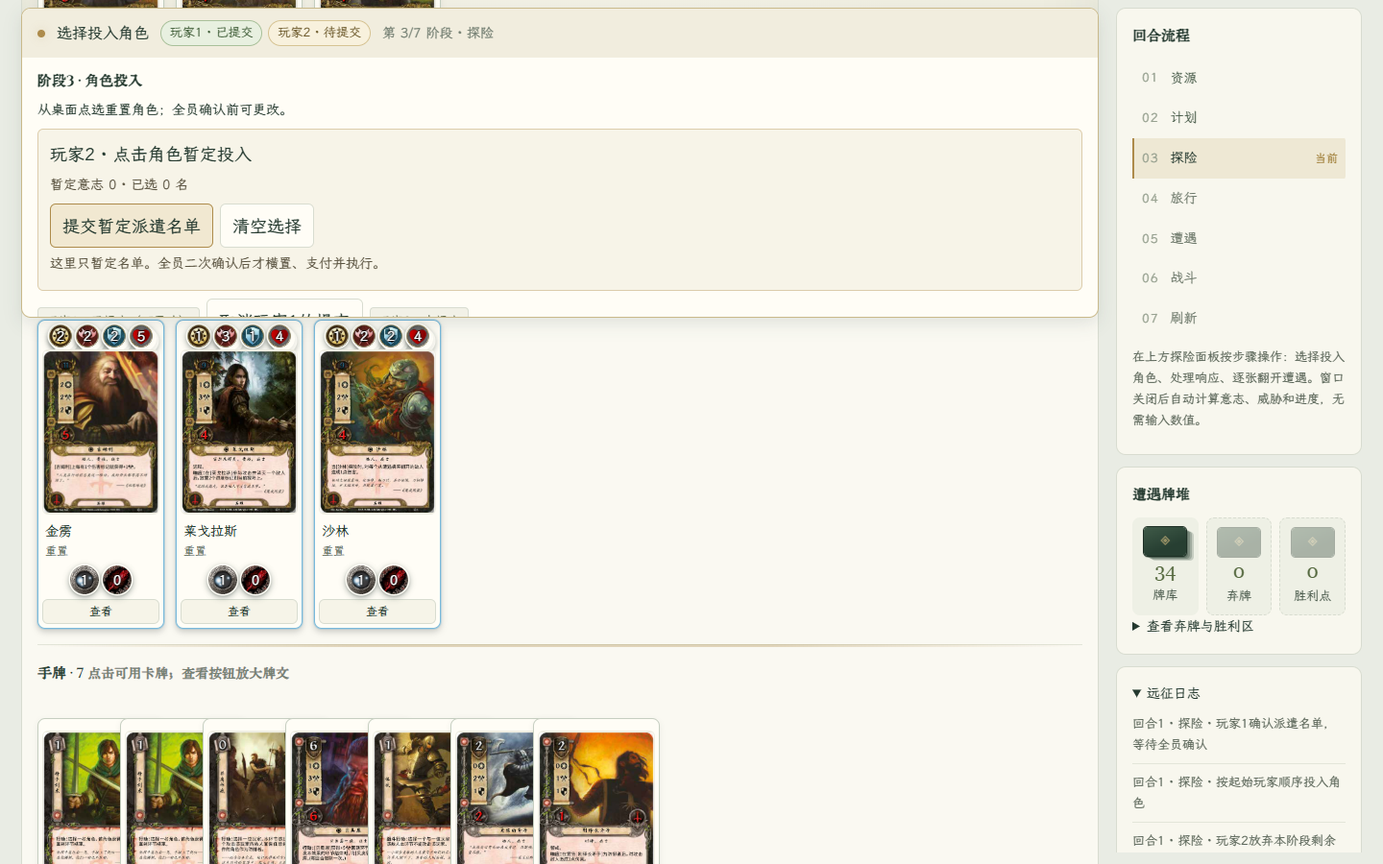
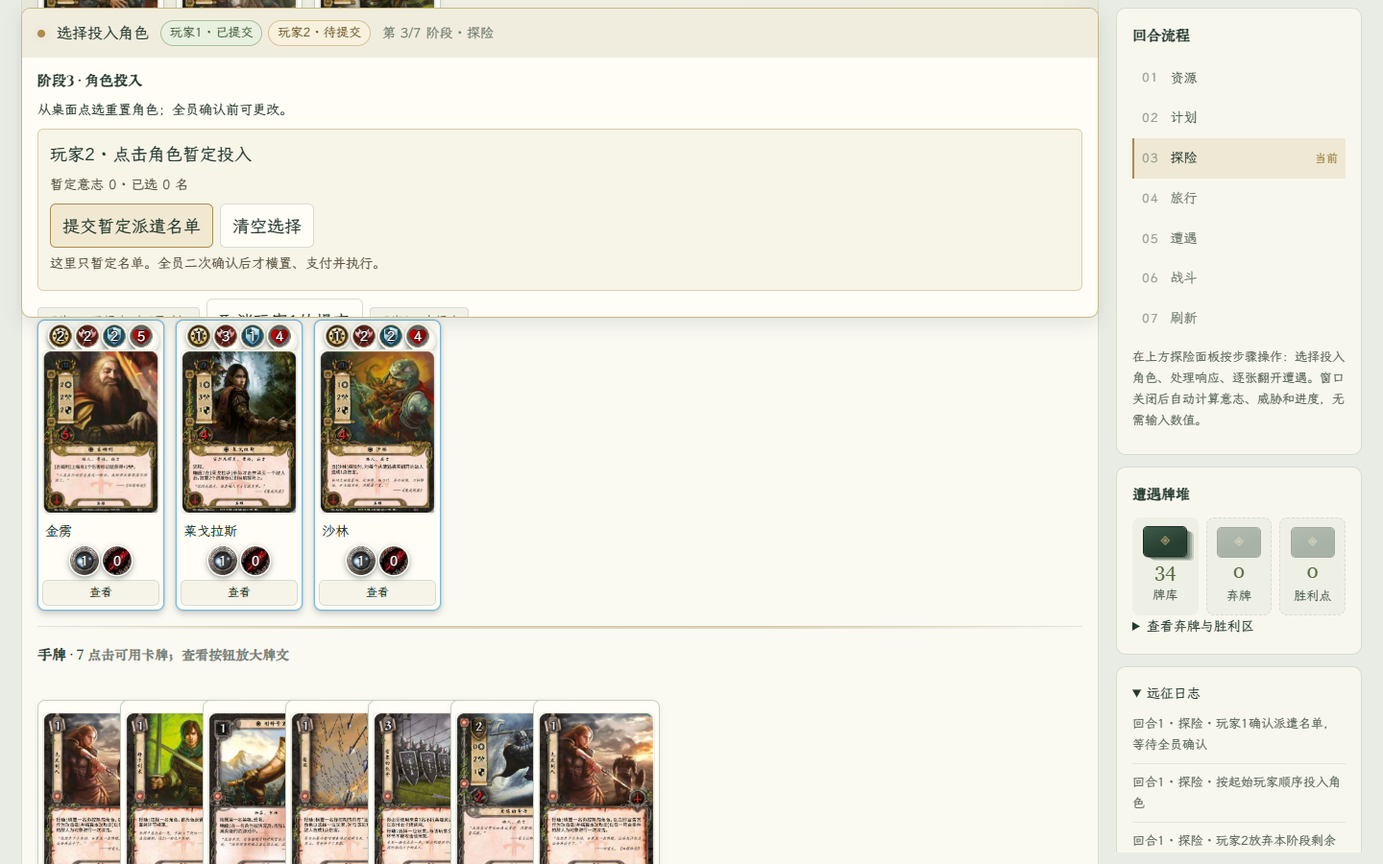
v0.15.38 横置改为卡图旋转90°表现，移除横置/重置文案

Changed region(s): [[0.0312, 0.6222, 0.6875, 1.0], [0.0312, 0.0, 0.3125, 0.0311]]

diff --git a/index.html b/index.html
@@ -27,7 +27,9 @@ body:has(.desktop-table) header{padding:10px 22px;background:#273f32;gap:22px;bo
 body:has(.desktop-table) main{padding:16px 22px 32px}
 .desktop-table main button{background:#fffdf6;color:#24392f;border-color:#c6cfc1;font-size:14px;padding:6px 10px}.desktop-table main button:hover{background:#f1e8d1;border-color:#ad8b4b}.desktop-table main button:disabled{opacity:.48}.desktop-table main button.primary{background:#365842;border-color:#365842;color:#fff}.desktop-table main select,.desktop-table main input{background:#fff;color:#24392f;border-color:#d8dcd0}.desktop-table .badge{background:#f2f1e7;color:#55603f}.desktop-table .notice{background:#f4eddc;color:#73613e}.desktop-table .warning-text{color:#a26a34}.desktop-table .win{background:#dfead4;color:#42603b}.desktop-table .lost{background:#f2dfd5;color:#934f3c}
 .expedition-title{display:flex;align-items:center;gap:22px;flex-wrap:wrap;margin-bottom:16px}.expedition-title h1{font-size:26px;margin:1px 0}.expedition-title>.player-tabs{margin-left:auto;display:flex;gap:6px;flex-wrap:wrap}.player-tabs button.active{background:#527085;border-color:#d7c18b;color:#fff}.tabletop-layout{display:grid;grid-template-columns:minmax(0,1fr) 256px;gap:18px;align-items:start}.tabletop-main{min-width:0;display:grid;gap:18px}.operation-dock{position:sticky;top:8px;z-index:5;background:#233b4c;box-shadow:0 6px 18px #0005;border:1px solid #6c91a8;border-radius:9px;overflow:hidden}.operation-title{display:flex;gap:12px;align-items:center;padding:12px 16px;background:#304e62;flex-wrap:wrap}.operation-title strong{font-size:16px}.operation-title>.primary{margin-left:auto}.operation-indicator{width:8px;height:8px;background:#e3c88c;box-shadow:0 0 10px #e3c88c55;border-radius:50%}.operation-content{max-height:30vh;overflow:auto;overscroll-behavior:contain;padding:0 14px}.operation-content:empty{display:none}.operation-content>.panel{border:0;background:transparent;padding:12px 0;margin:0;border-radius:0}.operation-content h2{font-size:15px}.operation-content p{margin:5px 0;font-size:14px}.operation-content .actions{margin-top:7px}.operation-content .table-selection{padding:10px 12px;background:#182e3b;border:1px solid #55768c;border-radius:6px;margin:8px 0}.operation-content .table-selection p{color:#d1e4ee}.operation-content .planning-board,.operation-content .planning-hand{display:none}
-.public-table{background:radial-gradient(ellipse at top,#30424e,#25343e 70%);border:1px solid #4c606c;border-radius:10px;padding:16px;display:grid;gap:16px;min-width:0}.table-zone{min-width:0}.zone-heading{display:flex;align-items:center;justify-content:space-between;gap:12px;margin-bottom:9px;flex-wrap:wrap;line-height:1.3}.zone-heading h2{font-size:15px;color:#dbe6ee;font-weight:600}.zone-heading h3{font-size:15px}.zone-heading>span{font-size:14px;color:#bfcbd4}.threat-total{margin-left:12px;font-size:14px;color:#e9c98e}.table-card-row{display:flex;gap:12px;align-items:flex-start;flex-wrap:wrap;min-height:48px}.zone-empty{display:flex;align-items:center;justify-content:center;min-height:68px;width:100%;border:1px dashed #526571;border-radius:6px;color:#adbbc6;font-size:14px}.quest-location-row{display:grid;grid-template-columns:minmax(0,1fr) minmax(180px,.6fr);gap:20px;border-bottom:1px solid #4a5b67;padding-bottom:16px}.quest-display{display:flex;gap:16px;align-items:flex-start}.quest-display>.card-art{width:128px;min-width:100px;flex:none;margin:0}.quest-display .image-loading-note{display:none}.quest-display h3{color:#edd4a3}.quest-display p{font-size:14px;color:#d3dde4;line-height:1.7}.active-zone .table-card-row{min-height:155px}.player-mat{background:#23333f;border:1px solid #657b88;border-top:3px solid #c6ac74;border-radius:10px;padding:16px;display:grid;gap:16px}.player-mat>.zone-heading{margin-bottom:0}.player-mat>.table-zone+.table-zone{border-top:1px solid #455762;padding-top:14px}.other-player{padding-top:14px;border-top:1px solid #4c5e6b}.table-card{width:122px;flex:0 0 122px;min-width:0;background:#182630;border:1px solid #526572;border-radius:7px;padding:4px;position:relative;box-shadow:0 3px 7px #0003}.table-card .card-face{display:block;position:relative;width:100%;padding:0;border:1px solid transparent;border-radius:4px;overflow:hidden;background:#101d26;min-height:154px}.table-card .card-face:disabled{opacity:1}.card-face img{display:block;width:100%;aspect-ratio:424/600;object-fit:contain}.card-face img[hidden]{display:none}.card-face:has(img[hidden]):after{content:'卡图加载失败，请查看牌名与数值';display:block;padding:18px 8px;color:#bac7d0;font-size:13px}.table-card-fallback{display:block;padding:20px 5px;color:#b6c4ce}.table-card-caption{padding:6px 3px 3px;font-size:12px;line-height:1.6;overflow-wrap:anywhere}.table-card-caption b{display:block;color:#f0e5c8;font-size:14px}.table-card-caption span{display:block;color:#c3d0da}.table-card .inspect-card{width:100%;padding:2px 4px;font-size:12px;border-color:#405563;background:transparent;margin-top:3px}.table-card.selectable{border-color:#79b9db;box-shadow:0 0 0 1px #79b9db55,0 3px 7px #0003}.table-card.selectable .card-face{cursor:pointer}.table-card.selectable .card-face:hover{border-color:#fff3cf;filter:brightness(1.1)}.table-card.selected{border:2px solid #e8c473;padding:3px;box-shadow:0 0 12px #e8c47344}.selection-mark{position:absolute;bottom:6px;left:6px;background:#e8c473;color:#202936;border-radius:4px;padding:1px 7px;font-size:13px;font-weight:700}.table-card.exhausted .card-face img{filter:brightness(.64) saturate(.7)}.table-card.exhausted .table-card-caption>span:last-child{color:#e3b68a}.table-card.unavailable{opacity:.55}.table-card details{font-size:13px;padding:2px 4px;color:#c3d0da}.card-legality{display:block;font-size:12px;color:#abbac6;padding:3px}.peer-cards .table-card{width:100px;flex-basis:100px}.peer-cards .card-face{min-height:124px}.peer-cards .table-card-caption b{font-size:13px}.tabletop-rail{position:sticky;top:8px;display:grid;gap:12px;max-height:calc(100vh - 20px);overflow:auto;scrollbar-width:thin}.tabletop-rail>section,.tabletop-rail>details{background:#23323e;border:1px solid #475b6b;border-radius:8px;padding:13px}.tabletop-rail h2{font-size:15px;margin-bottom:10px}.rail-step{display:flex;gap:12px;padding:9px 8px;color:#9eafbd;border-left:2px solid transparent;align-items:center}.rail-step>span{font-size:13px;letter-spacing:1px;color:#96a9b7}.rail-step b{font-size:14px}.rail-step small{margin-left:auto;font-size:12px;color:#e4c68c}.rail-step.current{color:#fff2d7;background:#3c5061;border-left-color:#ddbc75;border-radius:2px}.rail-step.past{color:#b8c8bf}.deck-rail .deck-counts div{background:#182b37;color:#c6d5df}.deck-rail .deck-counts strong{font-size:23px;color:#efdfb8}.tabletop-rail summary{font-size:14px}.tabletop-rail p{font-size:13px;color:#b9c9d4}.table-log>div{max-height:265px;overflow:auto}.table-log p{border-bottom:1px solid #405361;padding-bottom:8px}.desktop-table .quest-layout{grid-template-columns:1fr}.desktop-table .panel .hero{color:#23392e}
+.public-table{background:radial-gradient(ellipse at top,#30424e,#25343e 70%);border:1px solid #4c606c;border-radius:10px;padding:16px;display:grid;gap:16px;min-width:0}.table-zone{min-width:0}.zone-heading{display:flex;align-items:center;justify-content:space-between;gap:12px;margin-bottom:9px;flex-wrap:wrap;line-height:1.3}.zone-heading h2{font-size:15px;color:#dbe6ee;font-weight:600}.zone-heading h3{font-size:15px}.zone-heading>span{font-size:14px;color:#bfcbd4}.threat-total{margin-left:12px;font-size:14px;color:#e9c98e}.table-card-row{display:flex;gap:12px;align-items:flex-start;flex-wrap:wrap;min-height:48px}.zone-empty{display:flex;align-items:center;justify-content:center;min-height:68px;width:100%;border:1px dashed #526571;border-radius:6px;color:#adbbc6;font-size:14px}.quest-location-row{display:grid;grid-template-columns:minmax(0,1fr) minmax(180px,.6fr);gap:20px;border-bottom:1px solid #4a5b67;padding-bottom:16px}.quest-display{display:flex;gap:16px;align-items:flex-start}.quest-display>.card-art{width:128px;min-width:100px;flex:none;margin:0}.quest-display .image-loading-note{display:none}.quest-display h3{color:#edd4a3}.quest-display p{font-size:14px;color:#d3dde4;line-height:1.7}.active-zone .table-card-row{min-height:155px}.player-mat{background:#23333f;border:1px solid #657b88;border-top:3px solid #c6ac74;border-radius:10px;padding:16px;display:grid;gap:16px}.player-mat>.zone-heading{margin-bottom:0}.player-mat>.table-zone+.table-zone{border-top:1px solid #455762;padding-top:14px}.other-player{padding-top:14px;border-top:1px solid #4c5e6b}.table-card{width:122px;flex:0 0 122px;min-width:0;background:#182630;border:1px solid #526572;border-radius:7px;padding:4px;position:relative;box-shadow:0 3px 7px #0003}.table-card .card-face{display:block;position:relative;width:100%;padding:0;border:1px solid transparent;border-radius:4px;overflow:hidden;background:#101d26;min-height:154px}.table-card .card-face:disabled{opacity:1}.card-face img{display:block;width:100%;aspect-ratio:424/600;object-fit:contain}.card-face img[hidden]{display:none}.card-face:has(img[hidden]):after{content:'卡图加载失败，请查看牌名与数值';display:block;padding:18px 8px;color:#bac7d0;font-size:13px}.table-card-fallback{display:block;padding:20px 5px;color:#b6c4ce}.table-card-caption{padding:6px 3px 3px;font-size:12px;line-height:1.6;overflow-wrap:anywhere}.table-card-caption b{display:block;color:#f0e5c8;font-size:14px}.table-card-caption span{display:block;color:#c3d0da}.table-card .inspect-card{width:100%;padding:2px 4px;font-size:12px;border-color:#405563;background:transparent;margin-top:3px}.table-card.selectable{border-color:#79b9db;box-shadow:0 0 0 1px #79b9db55,0 3px 7px #0003}.table-card.selectable .card-face{cursor:pointer}.table-card.selectable .card-face:hover{border-color:#fff3cf;filter:brightness(1.1)}.table-card.selected{border:2px solid #e8c473;padding:3px;box-shadow:0 0 12px #e8c47344}.selection-mark{position:absolute;bottom:6px;left:6px;background:#e8c473;color:#202936;border-radius:4px;padding:1px 7px;font-size:13px;font-weight:700}.table-card.exhausted .card-face img{filter:brightness(.64) saturate(.7)}
+.character-card.exhausted .card-face img{transform:rotate(90deg) scale(.7)}
+.character-card .card-face img{transition:transform .25s ease}.table-card.exhausted .table-card-caption>span:last-child{color:#e3b68a}.table-card.unavailable{opacity:.55}.table-card details{font-size:13px;padding:2px 4px;color:#c3d0da}.card-legality{display:block;font-size:12px;color:#abbac6;padding:3px}.peer-cards .table-card{width:100px;flex-basis:100px}.peer-cards .card-face{min-height:124px}.peer-cards .table-card-caption b{font-size:13px}.tabletop-rail{position:sticky;top:8px;display:grid;gap:12px;max-height:calc(100vh - 20px);overflow:auto;scrollbar-width:thin}.tabletop-rail>section,.tabletop-rail>details{background:#23323e;border:1px solid #475b6b;border-radius:8px;padding:13px}.tabletop-rail h2{font-size:15px;margin-bottom:10px}.rail-step{display:flex;gap:12px;padding:9px 8px;color:#9eafbd;border-left:2px solid transparent;align-items:center}.rail-step>span{font-size:13px;letter-spacing:1px;color:#96a9b7}.rail-step b{font-size:14px}.rail-step small{margin-left:auto;font-size:12px;color:#e4c68c}.rail-step.current{color:#fff2d7;background:#3c5061;border-left-color:#ddbc75;border-radius:2px}.rail-step.past{color:#b8c8bf}.deck-rail .deck-counts div{background:#182b37;color:#c6d5df}.deck-rail .deck-counts strong{font-size:23px;color:#efdfb8}.tabletop-rail summary{font-size:14px}.tabletop-rail p{font-size:13px;color:#b9c9d4}.table-log>div{max-height:265px;overflow:auto}.table-log p{border-bottom:1px solid #405361;padding-bottom:8px}.desktop-table .quest-layout{grid-template-columns:1fr}.desktop-table .panel .hero{color:#23392e}
 @media(min-width:1700px){.table-card{width:136px;flex-basis:136px}.peer-cards .table-card{width:110px;flex-basis:110px}.tabletop-layout{grid-template-columns:minmax(0,1fr) 274px}.operation-content{max-height:27vh}}
 @media(max-width:1100px){.tabletop-layout{grid-template-columns:minmax(0,1fr) 210px;gap:12px}.expedition-title{gap:12px}.quest-location-row{grid-template-columns:1fr}.quest-display>.card-art{width:100px}.table-card{width:110px;flex-basis:110px}.operation-content{max-height:35vh}}
 @media(max-width:760px){body:has(.desktop-table) main{padding:10px}.tabletop-layout{grid-template-columns:1fr}.tabletop-rail{position:static;max-height:none;grid-template-columns:1fr 1fr}.tabletop-rail .phase-rail{grid-column:1/-1}.phase-rail .rail-step{display:inline-flex;padding:5px}.phase-rail .rail-step>span,.phase-rail .rail-step small{display:none}.operation-dock{position:relative;top:0}.operation-content{max-height:none}.expedition-title>.player-tabs{margin:0}.public-table,.player-mat{padding:12px}.quest-display{gap:10px}.table-card-row{gap:8px}}
@@ -8690,7 +8692,7 @@ const WindowUI=(()=>{
 </script><script>
 /* Tabletop view: UI drafts never pay, exhaust, reveal, or bypass phase validation. */
 /* 界面版本徽标唯一来源：须与 CHANGELOG.md 最新条目标题一致（planning-dom-tests 有校验）。 */
-const APP_VERSION='v0.15.37';
+const APP_VERSION='v0.15.38';
 const DesktopUI=(()=>{
  const E=ScenarioEngine,R=E.planning,Q=E.questing,C=E.combat,esc=x=>String(x??'').replace(/[&<>"']/g,c=>({'&':'&amp;','<':'&lt;','>':'&gt;','"':'&quot;',"'":'&#39;'}[c]));
  let combatDraft={key:'',target:null,ids:[]},draftState=null;
@@ -8713,7 +8715,7 @@ const DesktopUI=(()=>{
  function art(code){const rec=ImageLibrary.by[code],url=ImageLibrary.safeUrl(rec?.faces?.B||rec?.imageUrl);return url?`<img src="${esc(url)}" alt="${esc(rec.nameZhCard||rec.name||code)}" loading="lazy" referrerpolicy="no-referrer">`:'<span class="table-card-fallback">卡图暂缺<br>请查看牌名与数值</span>';}
  function inspect(code){return `<button class="inspect-card" data-action="images" data-image-action="open" data-code="${esc(code)}" aria-label="查看卡牌详情">查看</button>`;}
  function character(s,c,m){const h=c.state,v=R.find(s,c.uid)?R.stats(s,c.uid):c.meta,selectable=eligible(s,m,c.uid),selected=!!m&&ids(s,m).includes(c.uid),ability=R.abilitySpec(s,c.controller,c.uid),a=selectable?'data-action="desktop" data-desktop="pick"':!m&&ability.legal?'data-action="planning" data-plan="ability"':'',captured=c.kind==='hero'&&!s.rescued&&s.prisoner?.player===c.controller&&s.prisoner?.hero===h.index;
-  return `<article class="table-card character-card ${h.exhausted?'exhausted':''} ${selectable?'selectable':''} ${selected?'selected':''} ${h.destroyed||captured?'unavailable':''}" data-card-uid="${c.uid}" aria-label="${esc(c.meta.nameZh)}：意志 ${v.willpower||0} 攻击 ${v.attack||0} 防御 ${v.defense||0} 生命 ${v.health||0}${c.kind==='hero'?' 资源 '+(h.resources||0):''} 伤害 ${h.damage||0}${selectable?'，点击选择':''}">${tokenRow('attr-tokens',tk('willpower',v.willpower||0,false)+tk('attack',v.attack||0,false)+tk('defense',v.defense||0,false)+tk('hitPoints',v.health||0,false))}<button class="card-face" ${a} data-player="${c.controller}" data-uid="${c.uid}" ${a?'':'disabled'} aria-label="${esc(c.meta.nameZh)}${selectable?'，点击选择':''}" aria-pressed="${selected}">${art(c.meta.code)}${selected?'<span class="selection-mark">已选</span>':''}</button><div class="table-card-caption"><b>${esc(c.meta.nameZh)}</b>${c.kind!=='hero'&&h.resources?`<span>资源 ${h.resources}</span>`:''}<span>${h.destroyed?'已离场':captured?'囚禁':h.exhausted?'横置':'重置'}${h.committed?' · 已投入':''}</span></div>${tokenRow('state-tokens',c.kind==='hero'?tk('resource',h.resources||0)+tk('damage',h.damage||0):tk('damage',h.damage||0))}${inspect(c.meta.code)}</article>`;
+  return `<article class="table-card character-card ${h.exhausted?'exhausted':''} ${selectable?'selectable':''} ${selected?'selected':''} ${h.destroyed||captured?'unavailable':''}" data-card-uid="${c.uid}" aria-label="${esc(c.meta.nameZh)}：意志 ${v.willpower||0} 攻击 ${v.attack||0} 防御 ${v.defense||0} 生命 ${v.health||0}${c.kind==='hero'?' 资源 '+(h.resources||0):''} 伤害 ${h.damage||0}${selectable?'，点击选择':''}">${tokenRow('attr-tokens',tk('willpower',v.willpower||0,false)+tk('attack',v.attack||0,false)+tk('defense',v.defense||0,false)+tk('hitPoints',v.health||0,false))}<button class="card-face" ${a} data-player="${c.controller}" data-uid="${c.uid}" ${a?'':'disabled'} aria-label="${esc(c.meta.nameZh)}${selectable?'，点击选择':''}" aria-pressed="${selected}">${art(c.meta.code)}${selected?'<span class="selection-mark">已选</span>':''}</button><div class="table-card-caption"><b>${esc(c.meta.nameZh)}</b>${c.kind!=='hero'&&h.resources?`<span>资源 ${h.resources}</span>`:''}${h.destroyed||captured||h.committed?`<span>${[h.destroyed?'已离场':captured?'囚禁':'',h.committed?'已投入':''].filter(Boolean).join(' · ')}</span>`:''}</div>${tokenRow('state-tokens',c.kind==='hero'?tk('resource',h.resources||0)+tk('damage',h.damage||0):tk('damage',h.damage||0))}${inspect(c.meta.code)}</article>`;
  }
  function playerChars(s,p){return [...p.heroStates.map(h=>({kind:'hero',uid:h.uid,controller:p.id,owner:p.id,state:h,meta:R.data(s,{...h,owner:p.id})})),...p.allies.map(c=>({kind:'ally',uid:c.uid,controller:p.id,owner:c.owner,state:c,meta:R.data(s,c)}))];}
  function encounter(s,c,zone,m){const found=R.find(s,c.uid),v=found?R.stats(s,c.uid):c;let attrs='',legal=false,selected=false;

diff --git a/style.css b/style.css
@@ -25,7 +25,9 @@ body:has(.desktop-table) header{padding:10px 22px;background:#273f32;gap:22px;bo
 body:has(.desktop-table) main{padding:16px 22px 32px}
 .desktop-table main button{background:#fffdf6;color:#24392f;border-color:#c6cfc1;font-size:14px;padding:6px 10px}.desktop-table main button:hover{background:#f1e8d1;border-color:#ad8b4b}.desktop-table main button:disabled{opacity:.48}.desktop-table main button.primary{background:#365842;border-color:#365842;color:#fff}.desktop-table main select,.desktop-table main input{background:#fff;color:#24392f;border-color:#d8dcd0}.desktop-table .badge{background:#f2f1e7;color:#55603f}.desktop-table .notice{background:#f4eddc;color:#73613e}.desktop-table .warning-text{color:#a26a34}.desktop-table .win{background:#dfead4;color:#42603b}.desktop-table .lost{background:#f2dfd5;color:#934f3c}
 .expedition-title{display:flex;align-items:center;gap:22px;flex-wrap:wrap;margin-bottom:16px}.expedition-title h1{font-size:26px;margin:1px 0}.expedition-title>.player-tabs{margin-left:auto;display:flex;gap:6px;flex-wrap:wrap}.player-tabs button.active{background:#527085;border-color:#d7c18b;color:#fff}.tabletop-layout{display:grid;grid-template-columns:minmax(0,1fr) 256px;gap:18px;align-items:start}.tabletop-main{min-width:0;display:grid;gap:18px}.operation-dock{position:sticky;top:8px;z-index:5;background:#233b4c;box-shadow:0 6px 18px #0005;border:1px solid #6c91a8;border-radius:9px;overflow:hidden}.operation-title{display:flex;gap:12px;align-items:center;padding:12px 16px;background:#304e62;flex-wrap:wrap}.operation-title strong{font-size:16px}.operation-title>.primary{margin-left:auto}.operation-indicator{width:8px;height:8px;background:#e3c88c;box-shadow:0 0 10px #e3c88c55;border-radius:50%}.operation-content{max-height:30vh;overflow:auto;overscroll-behavior:contain;padding:0 14px}.operation-content:empty{display:none}.operation-content>.panel{border:0;background:transparent;padding:12px 0;margin:0;border-radius:0}.operation-content h2{font-size:15px}.operation-content p{margin:5px 0;font-size:14px}.operation-content .actions{margin-top:7px}.operation-content .table-selection{padding:10px 12px;background:#182e3b;border:1px solid #55768c;border-radius:6px;margin:8px 0}.operation-content .table-selection p{color:#d1e4ee}.operation-content .planning-board,.operation-content .planning-hand{display:none}
-.public-table{background:radial-gradient(ellipse at top,#30424e,#25343e 70%);border:1px solid #4c606c;border-radius:10px;padding:16px;display:grid;gap:16px;min-width:0}.table-zone{min-width:0}.zone-heading{display:flex;align-items:center;justify-content:space-between;gap:12px;margin-bottom:9px;flex-wrap:wrap;line-height:1.3}.zone-heading h2{font-size:15px;color:#dbe6ee;font-weight:600}.zone-heading h3{font-size:15px}.zone-heading>span{font-size:14px;color:#bfcbd4}.threat-total{margin-left:12px;font-size:14px;color:#e9c98e}.table-card-row{display:flex;gap:12px;align-items:flex-start;flex-wrap:wrap;min-height:48px}.zone-empty{display:flex;align-items:center;justify-content:center;min-height:68px;width:100%;border:1px dashed #526571;border-radius:6px;color:#adbbc6;font-size:14px}.quest-location-row{display:grid;grid-template-columns:minmax(0,1fr) minmax(180px,.6fr);gap:20px;border-bottom:1px solid #4a5b67;padding-bottom:16px}.quest-display{display:flex;gap:16px;align-items:flex-start}.quest-display>.card-art{width:128px;min-width:100px;flex:none;margin:0}.quest-display .image-loading-note{display:none}.quest-display h3{color:#edd4a3}.quest-display p{font-size:14px;color:#d3dde4;line-height:1.7}.active-zone .table-card-row{min-height:155px}.player-mat{background:#23333f;border:1px solid #657b88;border-top:3px solid #c6ac74;border-radius:10px;padding:16px;display:grid;gap:16px}.player-mat>.zone-heading{margin-bottom:0}.player-mat>.table-zone+.table-zone{border-top:1px solid #455762;padding-top:14px}.other-player{padding-top:14px;border-top:1px solid #4c5e6b}.table-card{width:122px;flex:0 0 122px;min-width:0;background:#182630;border:1px solid #526572;border-radius:7px;padding:4px;position:relative;box-shadow:0 3px 7px #0003}.table-card .card-face{display:block;position:relative;width:100%;padding:0;border:1px solid transparent;border-radius:4px;overflow:hidden;background:#101d26;min-height:154px}.table-card .card-face:disabled{opacity:1}.card-face img{display:block;width:100%;aspect-ratio:424/600;object-fit:contain}.card-face img[hidden]{display:none}.card-face:has(img[hidden]):after{content:'卡图加载失败，请查看牌名与数值';display:block;padding:18px 8px;color:#bac7d0;font-size:13px}.table-card-fallback{display:block;padding:20px 5px;color:#b6c4ce}.table-card-caption{padding:6px 3px 3px;font-size:12px;line-height:1.6;overflow-wrap:anywhere}.table-card-caption b{display:block;color:#f0e5c8;font-size:14px}.table-card-caption span{display:block;color:#c3d0da}.table-card .inspect-card{width:100%;padding:2px 4px;font-size:12px;border-color:#405563;background:transparent;margin-top:3px}.table-card.selectable{border-color:#79b9db;box-shadow:0 0 0 1px #79b9db55,0 3px 7px #0003}.table-card.selectable .card-face{cursor:pointer}.table-card.selectable .card-face:hover{border-color:#fff3cf;filter:brightness(1.1)}.table-card.selected{border:2px solid #e8c473;padding:3px;box-shadow:0 0 12px #e8c47344}.selection-mark{position:absolute;bottom:6px;left:6px;background:#e8c473;color:#202936;border-radius:4px;padding:1px 7px;font-size:13px;font-weight:700}.table-card.exhausted .card-face img{filter:brightness(.64) saturate(.7)}.table-card.exhausted .table-card-caption>span:last-child{color:#e3b68a}.table-card.unavailable{opacity:.55}.table-card details{font-size:13px;padding:2px 4px;color:#c3d0da}.card-legality{display:block;font-size:12px;color:#abbac6;padding:3px}.peer-cards .table-card{width:100px;flex-basis:100px}.peer-cards .card-face{min-height:124px}.peer-cards .table-card-caption b{font-size:13px}.tabletop-rail{position:sticky;top:8px;display:grid;gap:12px;max-height:calc(100vh - 20px);overflow:auto;scrollbar-width:thin}.tabletop-rail>section,.tabletop-rail>details{background:#23323e;border:1px solid #475b6b;border-radius:8px;padding:13px}.tabletop-rail h2{font-size:15px;margin-bottom:10px}.rail-step{display:flex;gap:12px;padding:9px 8px;color:#9eafbd;border-left:2px solid transparent;align-items:center}.rail-step>span{font-size:13px;letter-spacing:1px;color:#96a9b7}.rail-step b{font-size:14px}.rail-step small{margin-left:auto;font-size:12px;color:#e4c68c}.rail-step.current{color:#fff2d7;background:#3c5061;border-left-color:#ddbc75;border-radius:2px}.rail-step.past{color:#b8c8bf}.deck-rail .deck-counts div{background:#182b37;color:#c6d5df}.deck-rail .deck-counts strong{font-size:23px;color:#efdfb8}.tabletop-rail summary{font-size:14px}.tabletop-rail p{font-size:13px;color:#b9c9d4}.table-log>div{max-height:265px;overflow:auto}.table-log p{border-bottom:1px solid #405361;padding-bottom:8px}.desktop-table .quest-layout{grid-template-columns:1fr}.desktop-table .panel .hero{color:#23392e}
+.public-table{background:radial-gradient(ellipse at top,#30424e,#25343e 70%);border:1px solid #4c606c;border-radius:10px;padding:16px;display:grid;gap:16px;min-width:0}.table-zone{min-width:0}.zone-heading{display:flex;align-items:center;justify-content:space-between;gap:12px;margin-bottom:9px;flex-wrap:wrap;line-height:1.3}.zone-heading h2{font-size:15px;color:#dbe6ee;font-weight:600}.zone-heading h3{font-size:15px}.zone-heading>span{font-size:14px;color:#bfcbd4}.threat-total{margin-left:12px;font-size:14px;color:#e9c98e}.table-card-row{display:flex;gap:12px;align-items:flex-start;flex-wrap:wrap;min-height:48px}.zone-empty{display:flex;align-items:center;justify-content:center;min-height:68px;width:100%;border:1px dashed #526571;border-radius:6px;color:#adbbc6;font-size:14px}.quest-location-row{display:grid;grid-template-columns:minmax(0,1fr) minmax(180px,.6fr);gap:20px;border-bottom:1px solid #4a5b67;padding-bottom:16px}.quest-display{display:flex;gap:16px;align-items:flex-start}.quest-display>.card-art{width:128px;min-width:100px;flex:none;margin:0}.quest-display .image-loading-note{display:none}.quest-display h3{color:#edd4a3}.quest-display p{font-size:14px;color:#d3dde4;line-height:1.7}.active-zone .table-card-row{min-height:155px}.player-mat{background:#23333f;border:1px solid #657b88;border-top:3px solid #c6ac74;border-radius:10px;padding:16px;display:grid;gap:16px}.player-mat>.zone-heading{margin-bottom:0}.player-mat>.table-zone+.table-zone{border-top:1px solid #455762;padding-top:14px}.other-player{padding-top:14px;border-top:1px solid #4c5e6b}.table-card{width:122px;flex:0 0 122px;min-width:0;background:#182630;border:1px solid #526572;border-radius:7px;padding:4px;position:relative;box-shadow:0 3px 7px #0003}.table-card .card-face{display:block;position:relative;width:100%;padding:0;border:1px solid transparent;border-radius:4px;overflow:hidden;background:#101d26;min-height:154px}.table-card .card-face:disabled{opacity:1}.card-face img{display:block;width:100%;aspect-ratio:424/600;object-fit:contain}.card-face img[hidden]{display:none}.card-face:has(img[hidden]):after{content:'卡图加载失败，请查看牌名与数值';display:block;padding:18px 8px;color:#bac7d0;font-size:13px}.table-card-fallback{display:block;padding:20px 5px;color:#b6c4ce}.table-card-caption{padding:6px 3px 3px;font-size:12px;line-height:1.6;overflow-wrap:anywhere}.table-card-caption b{display:block;color:#f0e5c8;font-size:14px}.table-card-caption span{display:block;color:#c3d0da}.table-card .inspect-card{width:100%;padding:2px 4px;font-size:12px;border-color:#405563;background:transparent;margin-top:3px}.table-card.selectable{border-color:#79b9db;box-shadow:0 0 0 1px #79b9db55,0 3px 7px #0003}.table-card.selectable .card-face{cursor:pointer}.table-card.selectable .card-face:hover{border-color:#fff3cf;filter:brightness(1.1)}.table-card.selected{border:2px solid #e8c473;padding:3px;box-shadow:0 0 12px #e8c47344}.selection-mark{position:absolute;bottom:6px;left:6px;background:#e8c473;color:#202936;border-radius:4px;padding:1px 7px;font-size:13px;font-weight:700}.table-card.exhausted .card-face img{filter:brightness(.64) saturate(.7)}
+.character-card.exhausted .card-face img{transform:rotate(90deg) scale(.7)}
+.character-card .card-face img{transition:transform .25s ease}.table-card.exhausted .table-card-caption>span:last-child{color:#e3b68a}.table-card.unavailable{opacity:.55}.table-card details{font-size:13px;padding:2px 4px;color:#c3d0da}.card-legality{display:block;font-size:12px;color:#abbac6;padding:3px}.peer-cards .table-card{width:100px;flex-basis:100px}.peer-cards .card-face{min-height:124px}.peer-cards .table-card-caption b{font-size:13px}.tabletop-rail{position:sticky;top:8px;display:grid;gap:12px;max-height:calc(100vh - 20px);overflow:auto;scrollbar-width:thin}.tabletop-rail>section,.tabletop-rail>details{background:#23323e;border:1px solid #475b6b;border-radius:8px;padding:13px}.tabletop-rail h2{font-size:15px;margin-bottom:10px}.rail-step{display:flex;gap:12px;padding:9px 8px;color:#9eafbd;border-left:2px solid transparent;align-items:center}.rail-step>span{font-size:13px;letter-spacing:1px;color:#96a9b7}.rail-step b{font-size:14px}.rail-step small{margin-left:auto;font-size:12px;color:#e4c68c}.rail-step.current{color:#fff2d7;background:#3c5061;border-left-color:#ddbc75;border-radius:2px}.rail-step.past{color:#b8c8bf}.deck-rail .deck-counts div{background:#182b37;color:#c6d5df}.deck-rail .deck-counts strong{font-size:23px;color:#efdfb8}.tabletop-rail summary{font-size:14px}.tabletop-rail p{font-size:13px;color:#b9c9d4}.table-log>div{max-height:265px;overflow:auto}.table-log p{border-bottom:1px solid #405361;padding-bottom:8px}.desktop-table .quest-layout{grid-template-columns:1fr}.desktop-table .panel .hero{color:#23392e}
 @media(min-width:1700px){.table-card{width:136px;flex-basis:136px}.peer-cards .table-card{width:110px;flex-basis:110px}.tabletop-layout{grid-template-columns:minmax(0,1fr) 274px}.operation-content{max-height:27vh}}
 @media(max-width:1100px){.tabletop-layout{grid-template-columns:minmax(0,1fr) 210px;gap:12px}.expedition-title{gap:12px}.quest-location-row{grid-template-columns:1fr}.quest-display>.card-art{width:100px}.table-card{width:110px;flex-basis:110px}.operation-content{max-height:35vh}}
 @media(max-width:760px){body:has(.desktop-table) main{padding:10px}.tabletop-layout{grid-template-columns:1fr}.tabletop-rail{position:static;max-height:none;grid-template-columns:1fr 1fr}.tabletop-rail .phase-rail{grid-column:1/-1}.phase-rail .rail-step{display:inline-flex;padding:5px}.phase-rail .rail-step>span,.phase-rail .rail-step small{display:none}.operation-dock{position:relative;top:0}.operation-content{max-height:none}.expedition-title>.player-tabs{margin:0}.public-table,.player-mat{padding:12px}.quest-display{gap:10px}.table-card-row{gap:8px}}

diff --git a/desktop-ui.js b/desktop-ui.js
@@ -1,6 +1,6 @@
 /* Tabletop view: UI drafts never pay, exhaust, reveal, or bypass phase validation. */
 /* 界面版本徽标唯一来源：须与 CHANGELOG.md 最新条目标题一致（planning-dom-tests 有校验）。 */
-const APP_VERSION='v0.15.37';
+const APP_VERSION='v0.15.38';
 const DesktopUI=(()=>{
  const E=ScenarioEngine,R=E.planning,Q=E.questing,C=E.combat,esc=x=>String(x??'').replace(/[&<>"']/g,c=>({'&':'&amp;','<':'&lt;','>':'&gt;','"':'&quot;',"'":'&#39;'}[c]));
  let combatDraft={key:'',target:null,ids:[]},draftState=null;
@@ -23,7 +23,7 @@ const DesktopUI=(()=>{
  function art(code){const rec=ImageLibrary.by[code],url=ImageLibrary.safeUrl(rec?.faces?.B||rec?.imageUrl);return url?`<img src="${esc(url)}" alt="${esc(rec.nameZhCard||rec.name||code)}" loading="lazy" referrerpolicy="no-referrer">`:'<span class="table-card-fallback">卡图暂缺<br>请查看牌名与数值</span>';}
  function inspect(code){return `<button class="inspect-card" data-action="images" data-image-action="open" data-code="${esc(code)}" aria-label="查看卡牌详情">查看</button>`;}
  function character(s,c,m){const h=c.state,v=R.find(s,c.uid)?R.stats(s,c.uid):c.meta,selectable=eligible(s,m,c.uid),selected=!!m&&ids(s,m).includes(c.uid),ability=R.abilitySpec(s,c.controller,c.uid),a=selectable?'data-action="desktop" data-desktop="pick"':!m&&ability.legal?'data-action="planning" data-plan="ability"':'',captured=c.kind==='hero'&&!s.rescued&&s.prisoner?.player===c.controller&&s.prisoner?.hero===h.index;
-  return `<article class="table-card character-card ${h.exhausted?'exhausted':''} ${selectable?'selectable':''} ${selected?'selected':''} ${h.destroyed||captured?'unavailable':''}" data-card-uid="${c.uid}" aria-label="${esc(c.meta.nameZh)}：意志 ${v.willpower||0} 攻击 ${v.attack||0} 防御 ${v.defense||0} 生命 ${v.health||0}${c.kind==='hero'?' 资源 '+(h.resources||0):''} 伤害 ${h.damage||0}${selectable?'，点击选择':''}">${tokenRow('attr-tokens',tk('willpower',v.willpower||0,false)+tk('attack',v.attack||0,false)+tk('defense',v.defense||0,false)+tk('hitPoints',v.health||0,false))}<button class="card-face" ${a} data-player="${c.controller}" data-uid="${c.uid}" ${a?'':'disabled'} aria-label="${esc(c.meta.nameZh)}${selectable?'，点击选择':''}" aria-pressed="${selected}">${art(c.meta.code)}${selected?'<span class="selection-mark">已选</span>':''}</button><div class="table-card-caption"><b>${esc(c.meta.nameZh)}</b>${c.kind!=='hero'&&h.resources?`<span>资源 ${h.resources}</span>`:''}<span>${h.destroyed?'已离场':captured?'囚禁':h.exhausted?'横置':'重置'}${h.committed?' · 已投入':''}</span></div>${tokenRow('state-tokens',c.kind==='hero'?tk('resource',h.resources||0)+tk('damage',h.damage||0):tk('damage',h.damage||0))}${inspect(c.meta.code)}</article>`;
+  return `<article class="table-card character-card ${h.exhausted?'exhausted':''} ${selectable?'selectable':''} ${selected?'selected':''} ${h.destroyed||captured?'unavailable':''}" data-card-uid="${c.uid}" aria-label="${esc(c.meta.nameZh)}：意志 ${v.willpower||0} 攻击 ${v.attack||0} 防御 ${v.defense||0} 生命 ${v.health||0}${c.kind==='hero'?' 资源 '+(h.resources||0):''} 伤害 ${h.damage||0}${selectable?'，点击选择':''}">${tokenRow('attr-tokens',tk('willpower',v.willpower||0,false)+tk('attack',v.attack||0,false)+tk('defense',v.defense||0,false)+tk('hitPoints',v.health||0,false))}<button class="card-face" ${a} data-player="${c.controller}" data-uid="${c.uid}" ${a?'':'disabled'} aria-label="${esc(c.meta.nameZh)}${selectable?'，点击选择':''}" aria-pressed="${selected}">${art(c.meta.code)}${selected?'<span class="selection-mark">已选</span>':''}</button><div class="table-card-caption"><b>${esc(c.meta.nameZh)}</b>${c.kind!=='hero'&&h.resources?`<span>资源 ${h.resources}</span>`:''}${h.destroyed||captured||h.committed?`<span>${[h.destroyed?'已离场':captured?'囚禁':'',h.committed?'已投入':''].filter(Boolean).join(' · ')}</span>`:''}</div>${tokenRow('state-tokens',c.kind==='hero'?tk('resource',h.resources||0)+tk('damage',h.damage||0):tk('damage',h.damage||0))}${inspect(c.meta.code)}</article>`;
  }
  function playerChars(s,p){return [...p.heroStates.map(h=>({kind:'hero',uid:h.uid,controller:p.id,owner:p.id,state:h,meta:R.data(s,{...h,owner:p.id})})),...p.allies.map(c=>({kind:'ally',uid:c.uid,controller:p.id,owner:c.owner,state:c,meta:R.data(s,c)}))];}
  function encounter(s,c,zone,m){const found=R.find(s,c.uid),v=found?R.stats(s,c.uid):c;let attrs='',legal=false,selected=false;

diff --git a/CHANGELOG.md b/CHANGELOG.md
@@ -1,3 +1,9 @@
+# v0.15.38 · 横置改旋转表现，移除「横置/重置」文案（2026-10-23）
+
+- **横置视觉升级**：角色卡横置不再只靠变暗——卡图改为**旋转 90°**（居中缩放 0.7 裁切在卡框内，带 0.25s 过渡），与实体桌游把卡转过来横放的动作一致。
+- **删除状态文字**：说明区移除「横置 / 重置」文案（视觉已可辨识，属冗余）；「已离场 / 囚禁 / 已投入」等**非横置类状态保留**（这些没有替代视觉表达）。
+- 测试无绑定旧文案；450 项测试、浏览器验收全绿。
+
 # v0.15.37 · 角色卡数值去重：代币取代文字行（2026-10-23）
 
 - **删除重复文字**：角色卡说明区不再重复「意 X · 攻 X · 防 X」与「伤害 X/Y」——顶部属性代币（意志/攻击/防御）与底部状态代币（资源/伤害）已完整覆盖这些数值。
